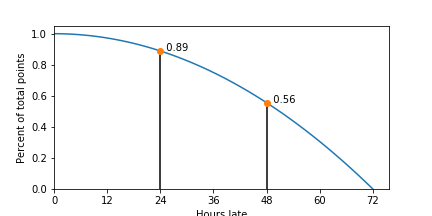
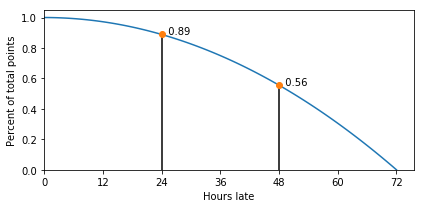
Update late policy images

diff --git a/syllabus/syllabus.md b/syllabus/syllabus.md
@@ -151,9 +151,9 @@ If you turn in a lab late, you will lose points.
 The percentage of points you will lose is given by the equation below.
 This will give you partial points up to 72 hours after the due date and penalizes you less if you barely miss the deadline.
 
-![image](http://latex.codecogs.com/gif.latex?fraction%5C%20of%5C%20points%20%3D%20-1%20%5Ctimes%20%5Cfrac%7B%7Bhours%5C%20late%7D%5E2%7D%7B72%5E2%7D%20&plus;%201){width="40%"}
+![Late policy latex code](http://latex.codecogs.com/gif.latex?fraction%5C%20of%5C%20points%20%3D%20-1%20%5Ctimes%20%5Cfrac%7B%7Bhours%5C%20late%7D%5E2%7D%7B72%5E2%7D%20&plus;%201)
 
-![image](late_policy.png){width="50%"}
+![Late policy graph](late_policy.png)
 
 Note: When submitting late the reduction in points will not immediately appear in Gradescope.
 Rest assured, we will go through and double check all of the submission times ;).
